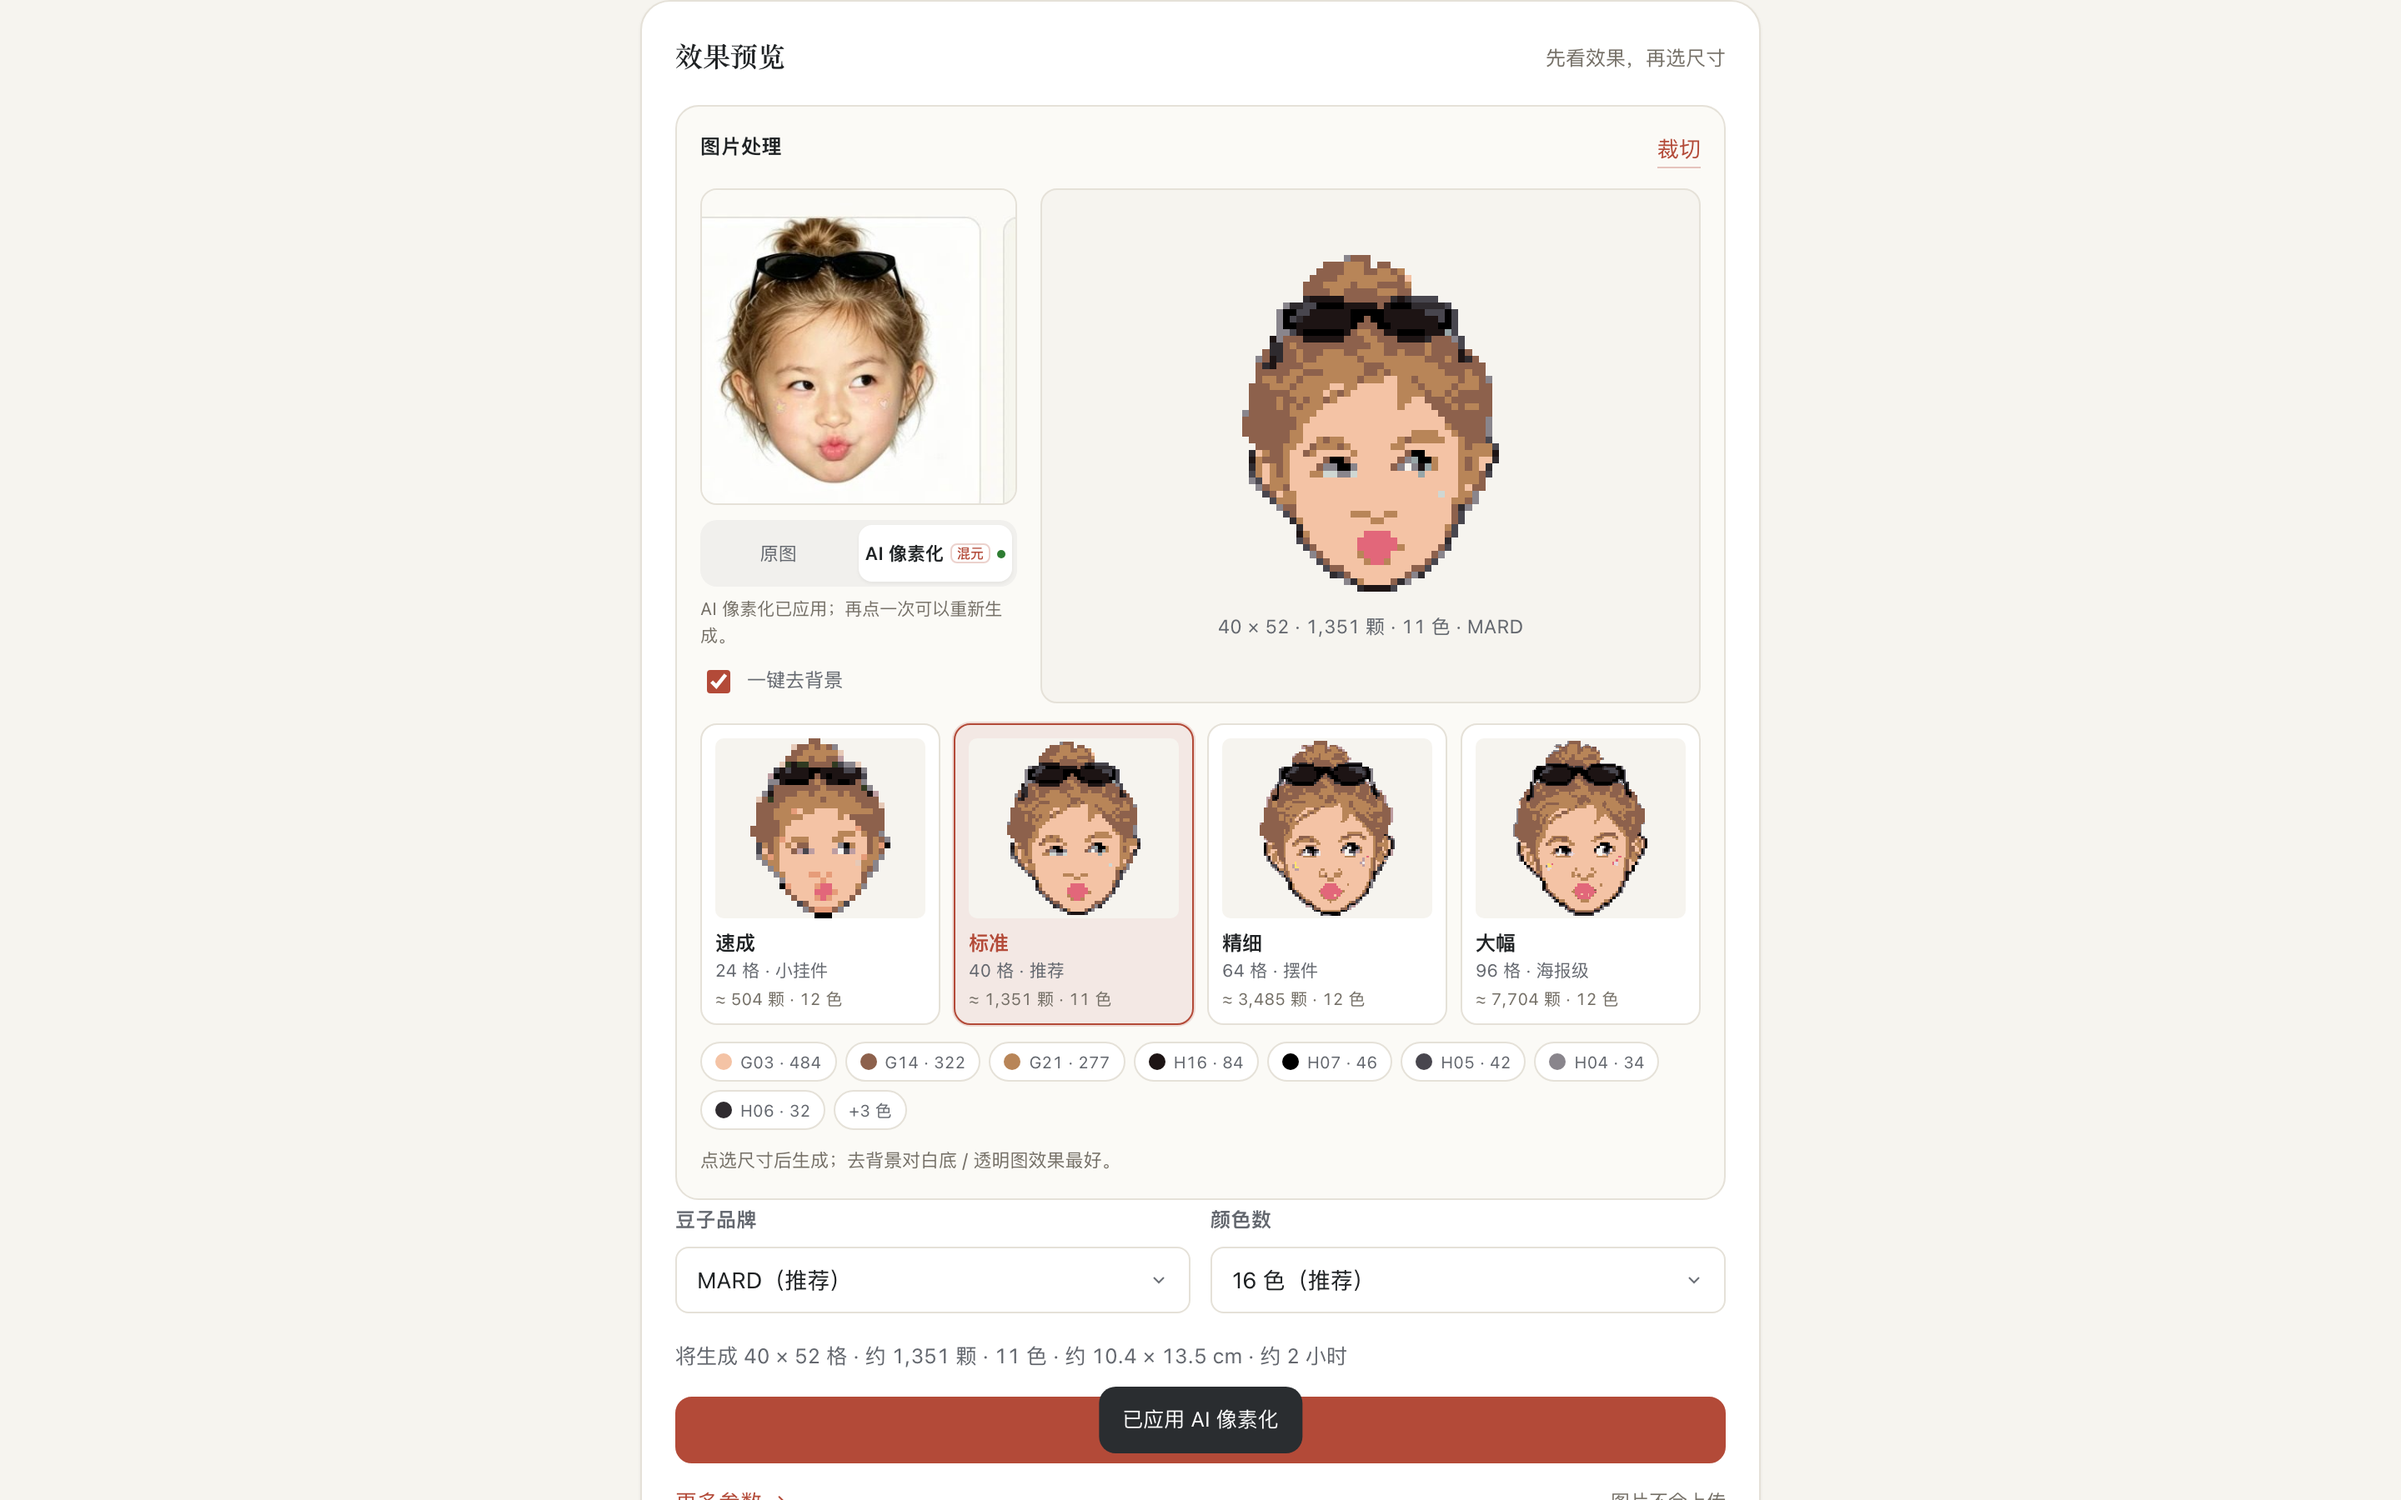
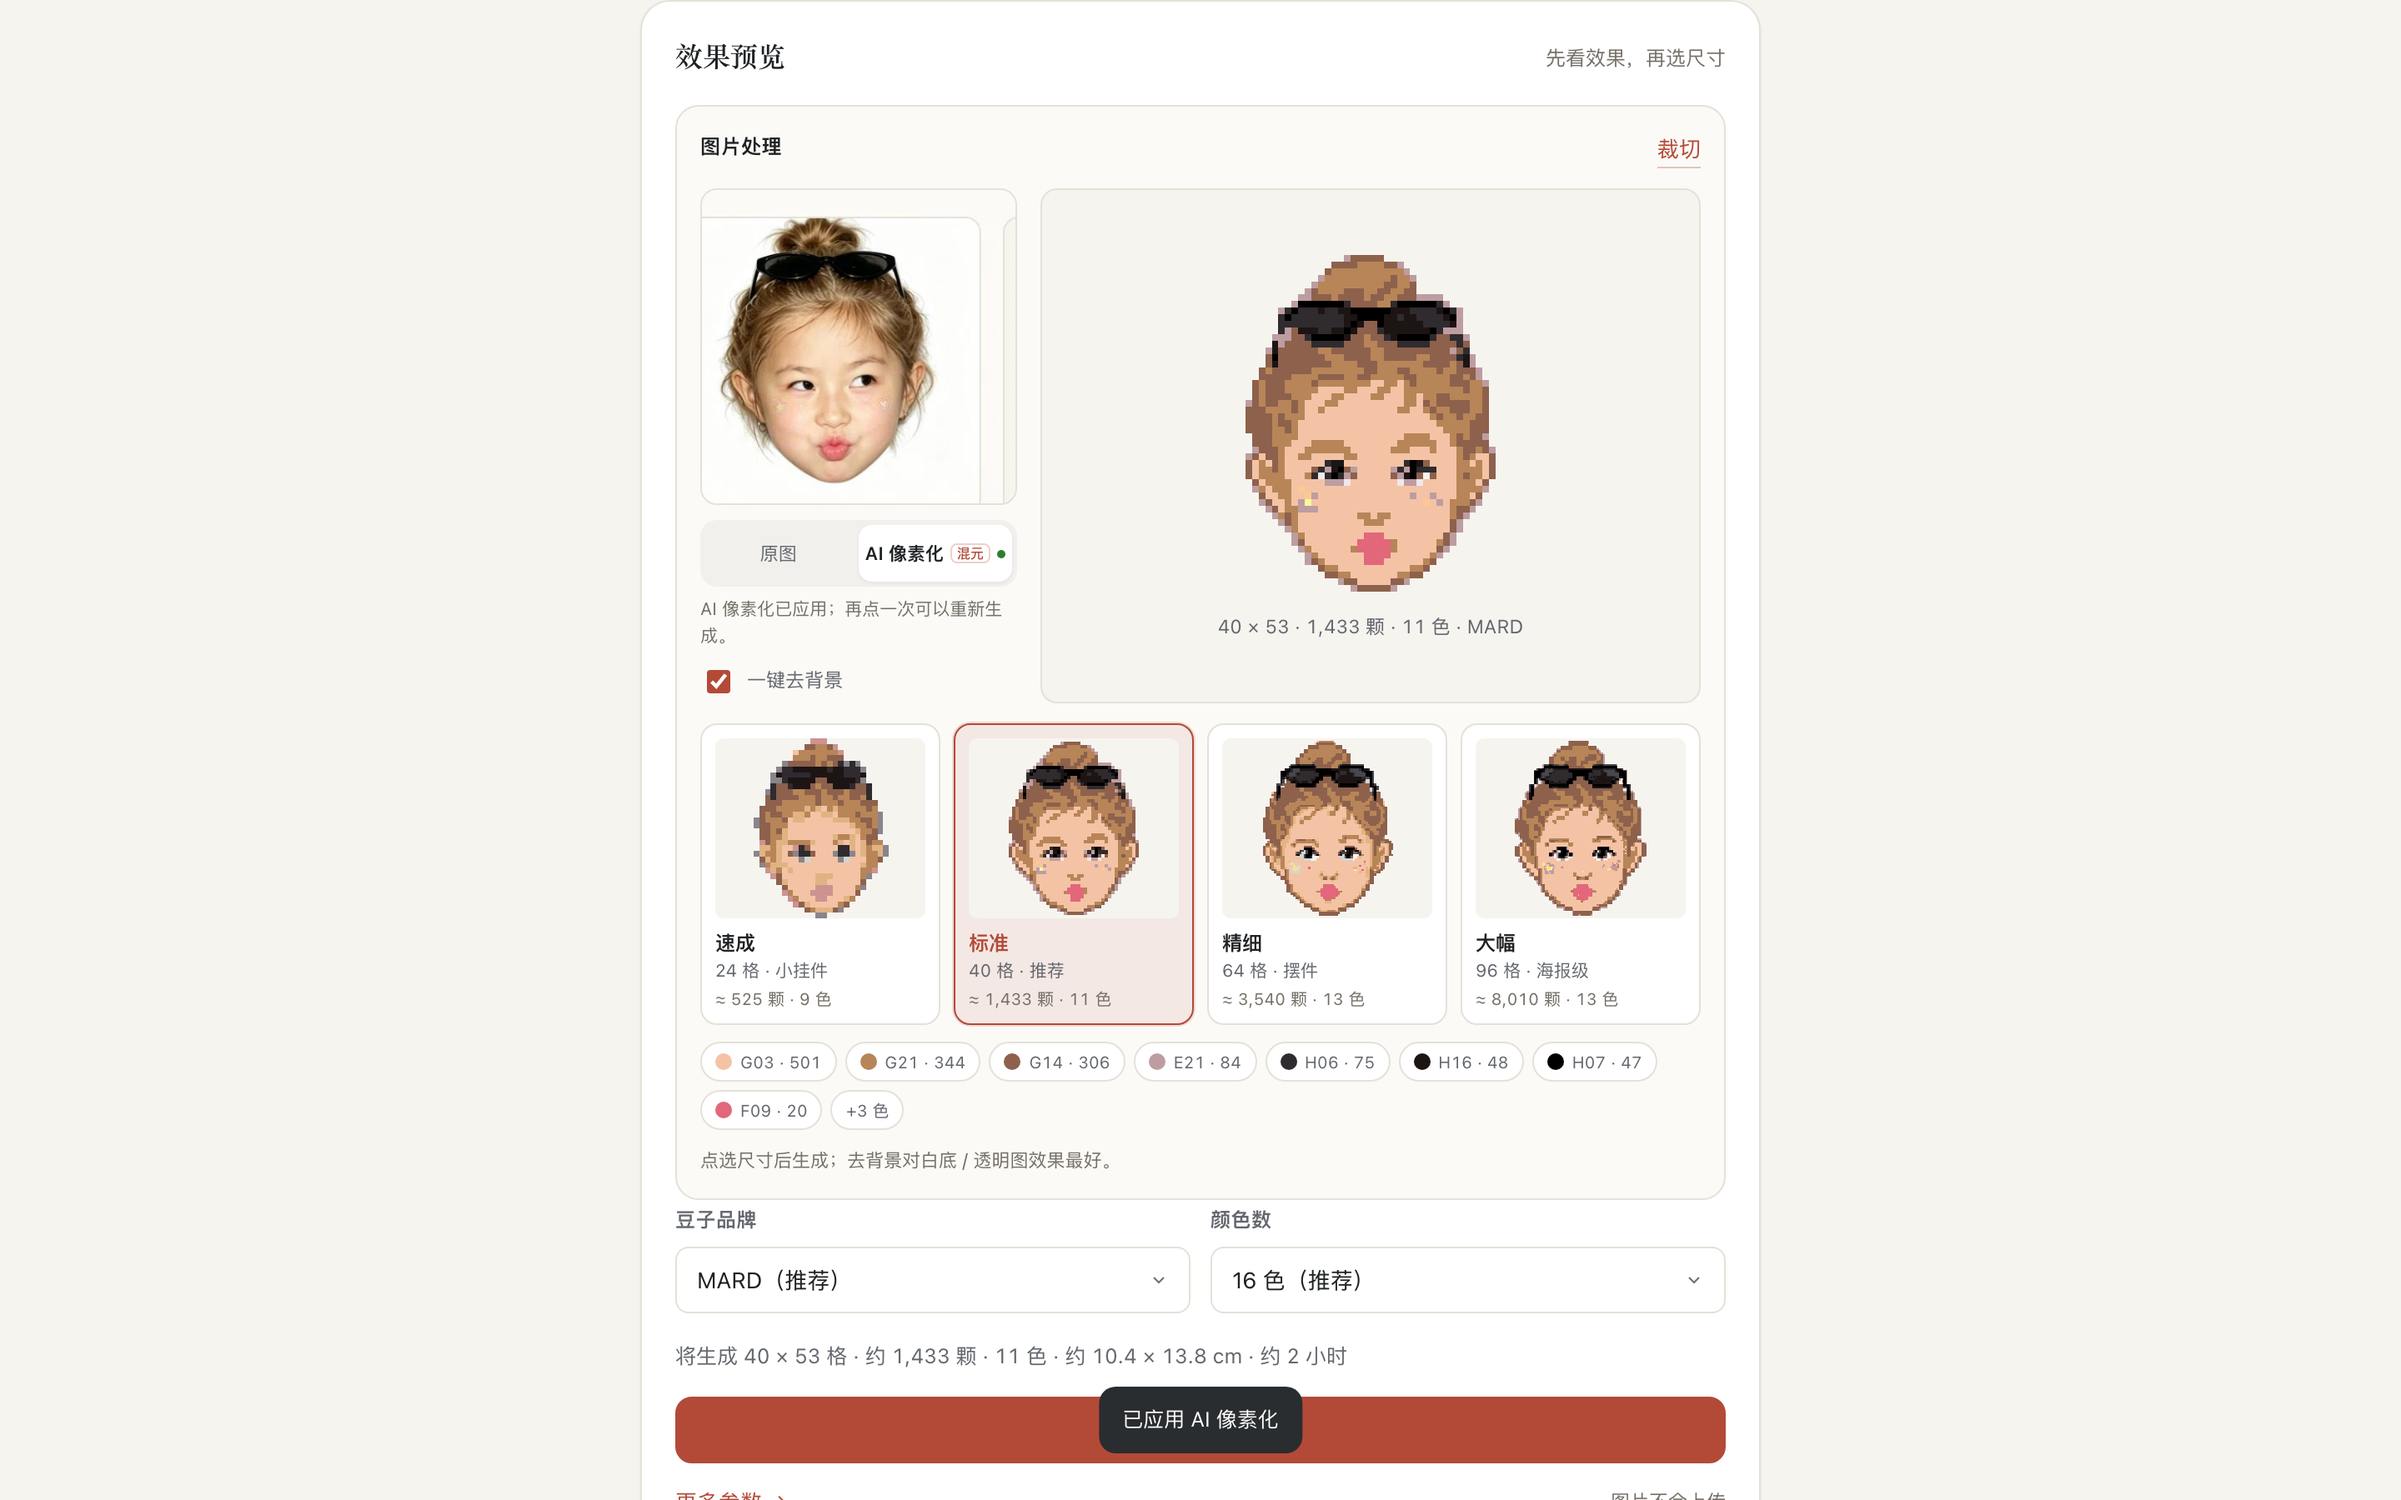
refine: 拼豆友好 prompt（limited palette/no dithering/no 3D beads）+ v6 人像验证

diff --git a/index.html b/index.html
@@ -424,7 +424,7 @@
 
     <div class="ai-single">
       <b>像素化</b>
-      <span>12–16 色 · 硬边缘 · 自动白底</span>
+      <span>12–14 色 · 硬边缘 · 自动白底</span>
     </div>
 
     <label class="field-group">

diff --git a/sw.js b/sw.js
@@ -1,5 +1,5 @@
 /* 拼豆工作室 Service Worker：离线可用 */
-const CACHE = 'pindou-studio-v8';
+const CACHE = 'pindou-studio-v9';
 const ASSETS = [
   './',
   'index.html',
